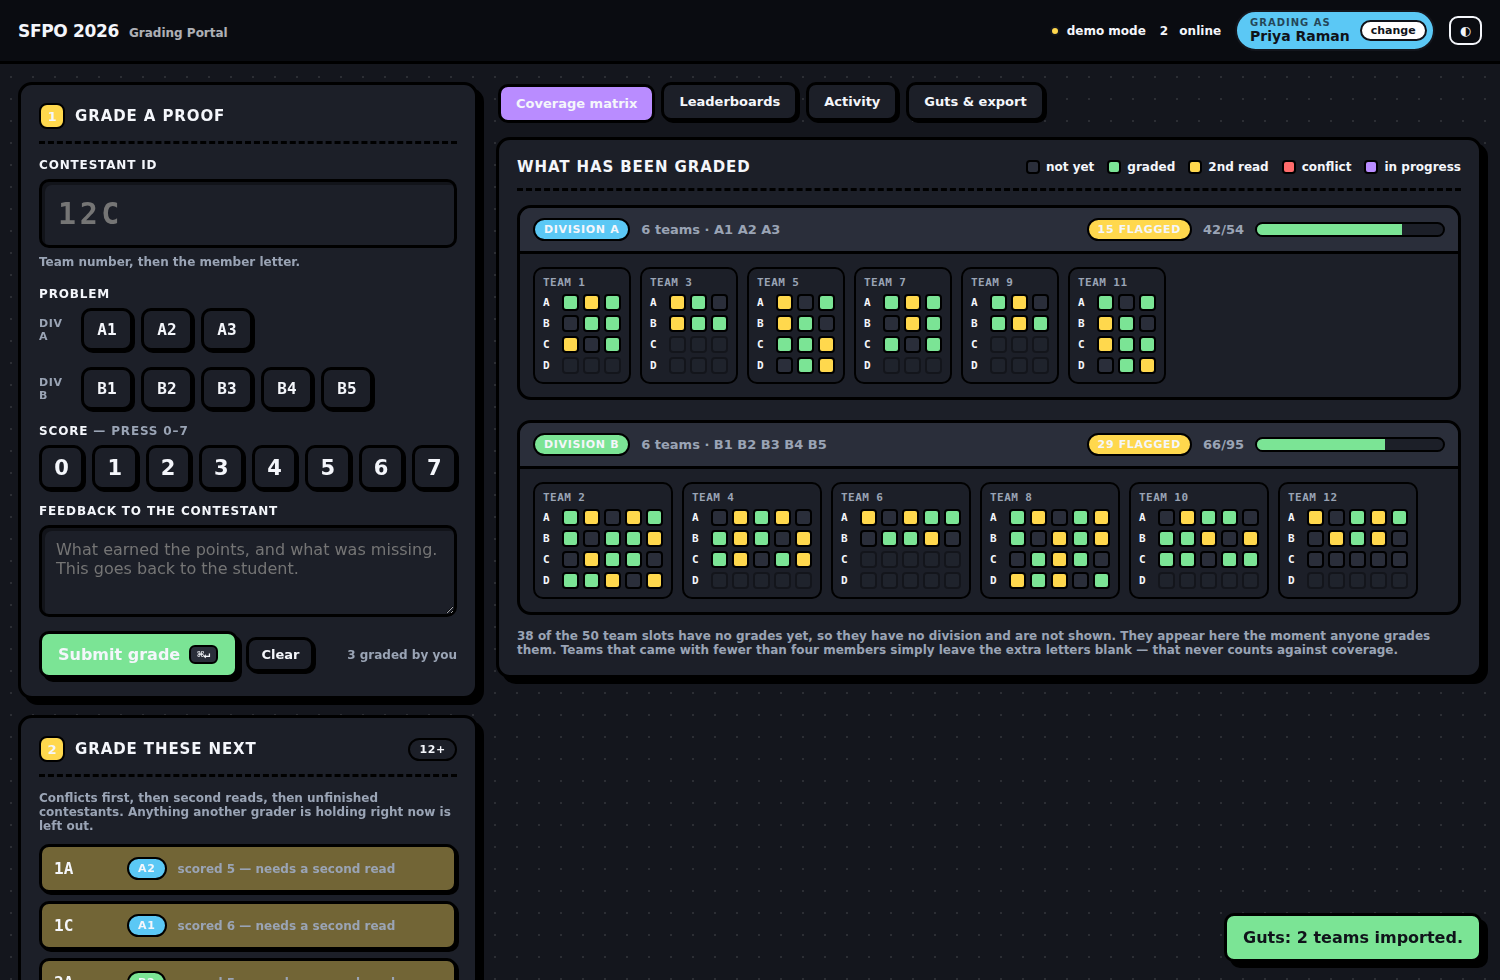
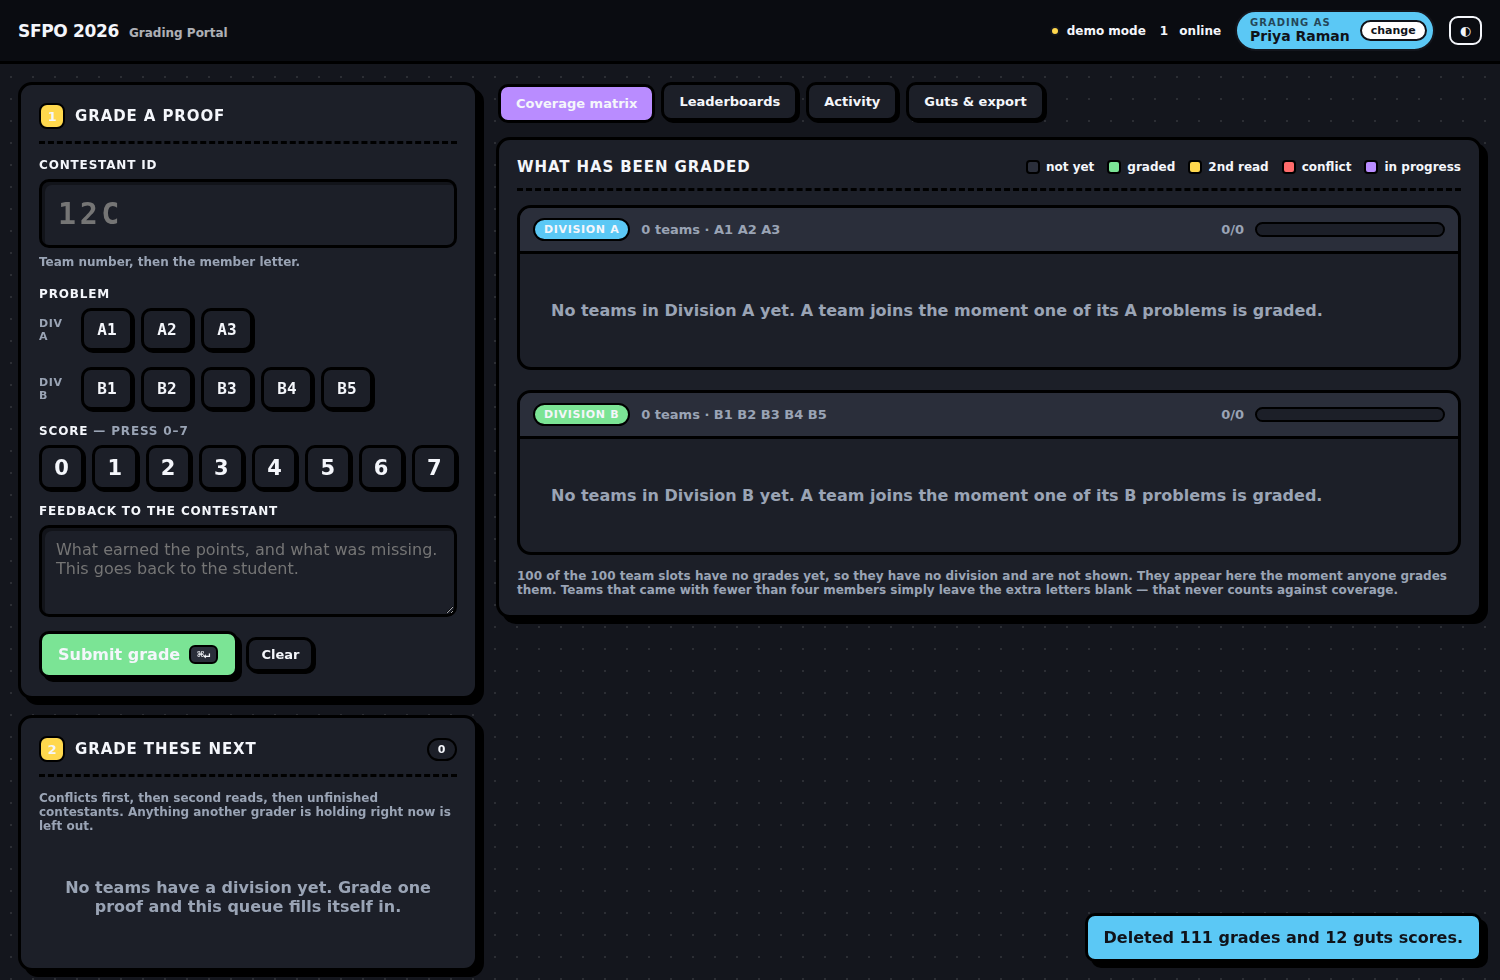
Scale to 100 teams and add a test-data wipe
Registration came in at ~100 teams, double what the portal assumed.

Team count now defaults to 100 in both config.js and the schema. The
stored app_settings value still wins over the file, so an existing
database keeps whatever it has — the README and setup runbook now say to
change it from Guts & export rather than the file.

Doubling the roster doubles the matrix to ~1,600 cells, and it was being
rebuilt from scratch on every realtime event — measured at ~156ms median
on a fully graded 100-team contest, which is visible jank while a grader
is typing feedback. The grid is now built once per shape change (a team
joining a division, a new member letter appearing) and every data change
after that only repaints classes and tooltips on cells that already
exist. Cell clicks moved to one delegated listener instead of ~1,600.
Same measurement now runs at ~40ms.

Adds a way to clear a dry run before the contest: Guts & export now has a
Clear test data panel that deletes every grade, guts score, team and lock
while deliberately preserving settings, since the team count and
thresholds are configuration rather than test data. It shows what would
be deleted, and needs the word ERASE typed in to arm. Both backends
implement it; the Supabase one reports per-table row counts.

The demo-only "Wipe demo data" button is gone, replaced by that panel.
"Load demo data" stays demo-only — seeding fake grades into a live
database would be a footgun.
[…]

diff --git a/assets/app.js b/assets/app.js
@@ -90,6 +90,7 @@ function recompute() {
   derived = {
     byCell,
     claims,
+    seen,
     divByTeam,
     roster,
     individuals,
@@ -453,29 +454,44 @@ function renderSuggestions() {
 // Coverage matrix
 // ---------------------------------------------------------------------
 
-function renderMatrix() {
+// The matrix is the expensive thing on the page: at 100 teams it is
+// ~1,600 cells, and a realtime event arrives every time any grader
+// submits. So the DOM is built once per *shape* change (a team joining a
+// division, a new member letter appearing) and every data change after
+// that only repaints classes and tooltips on cells that already exist.
+let matrixShape = null;
+const matrixCells = new Map();
+const matrixBars = new Map();
+
+function shapeSignature() {
+  return ['A', 'B'].map((division) => derived.roster[division]
+    .map((t) => `${t.team}.${t.members.map((m) => m.member).join('')}`)
+    .join(',')).join('|');
+}
+
+function buildMatrix() {
   const host = $('#matrix');
   host.replaceChildren();
+  matrixCells.clear();
+  matrixBars.clear();
 
   for (const division of ['A', 'B']) {
     const entries = derived.roster[division];
+    const problems = problemsFor(division, cfg);
     const section = el('div', 'matrix__division');
-    const bar = el('div', 'matrix__bar');
-    const progress = derived.progress[division];
 
-    bar.append(
-      el('span', `tag tag--${division.toLowerCase()}`, `Division ${division}`),
-      el('span', 'muted', `${entries.length} teams · ${problemsFor(division, cfg).join(' ')}`),
-    );
-    const spacer = el('span', 'spacer');
-    bar.appendChild(spacer);
-    if (progress.flagged) bar.appendChild(el('span', 'tag tag--flag', `${progress.flagged} flagged`));
-    bar.appendChild(el('span', 'muted', `${progress.done}/${progress.expected}`));
+    const bar = el('div', 'matrix__bar');
+    const flagged = el('span', 'tag tag--flag');
+    const counter = el('span', 'muted');
     const track = el('div', 'progress');
     const fill = el('div', 'progress__fill');
-    fill.style.width = `${progress.pct}%`;
     track.appendChild(fill);
-    bar.appendChild(track);
+    bar.append(
+      el('span', `tag tag--${division.toLowerCase()}`, `Division ${division}`),
+      el('span', 'muted', `${entries.length} teams · ${problems.join(' ')}`),
+      el('span', 'spacer'), flagged, counter, track,
+    );
+    matrixBars.set(division, { flagged, counter, fill });
     section.appendChild(bar);
 
     const grid = el('div', 'matrix__grid');
@@ -485,34 +501,17 @@ function renderMatrix() {
     }
     for (const entry of entries) {
       const teamCard = el('div', 'matrix__team');
-      const label = el('div', 'matrix__team-no', `TEAM ${entry.team}${entry.beyondRange ? ' ⚠' : ''}`);
-      teamCard.appendChild(label);
+      teamCard.appendChild(
+        el('div', 'matrix__team-no', `TEAM ${entry.team}${entry.beyondRange ? ' ⚠' : ''}`));
       for (const member of entry.members) {
         const row = el('div', 'matrix__row');
         row.appendChild(el('span', 'matrix__who', member.member));
-        for (const problem of problemsFor(division, cfg)) {
-          const key = cellKey(member.contestantId, problem);
-          const summary = summariseCell(derived.byCell.get(key), cfg);
-          const claim = derived.claims.get(key);
-
+        for (const problem of problems) {
           const cell = el('button', 'cell');
           cell.type = 'button';
-          if (summary.state !== 'ungraded') cell.classList.add(`cell--${summary.state}`);
-          else if (claim) cell.classList.add('cell--claimed');
-          else if (!member.seen) cell.classList.add('cell--absent');
-          if (claim?.grader_id === grader.id) cell.classList.add('cell--mine');
-
-          const parts = [`${member.contestantId} · ${problem}`];
-          if (summary.state === 'ungraded') parts.push(claim ? `${claim.grader_name} is on it` : 'not graded');
-          else parts.push(`${summary.scores.join(' → ')} by ${summary.graders.join(', ')}`);
-          cell.title = parts.join(' — ');
-          cell.setAttribute('aria-label', cell.title);
-
-          cell.addEventListener('click', () => {
-            $('#contestantId').value = member.contestantId;
-            setContestant(member.contestantId);
-            selectProblem(problem);
-          });
+          cell.dataset.cid = member.contestantId;
+          cell.dataset.problem = problem;
+          matrixCells.set(cellKey(member.contestantId, problem), cell);
           row.appendChild(cell);
         }
         teamCard.appendChild(row);
@@ -522,7 +521,50 @@ function renderMatrix() {
     section.appendChild(grid);
     host.appendChild(section);
   }
+}
 
+function paintMatrix() {
+  for (const [key, cell] of matrixCells) {
+    const [contestantId, problem] = key.split('|');
+    const summary = summariseCell(derived.byCell.get(key), cfg);
+    const claim = derived.claims.get(key);
+    const seen = derived.seen.has(contestantId);
+
+    let cls = 'cell';
+    if (summary.state !== 'ungraded') cls += ` cell--${summary.state}`;
+    else if (claim) cls += ' cell--claimed';
+    else if (!seen) cls += ' cell--absent';
+    if (claim?.grader_id === grader.id) cls += ' cell--mine';
+    if (cell.className !== cls) cell.className = cls;
+
+    const detail = summary.state === 'ungraded'
+      ? (claim ? `${claim.grader_name} is on it` : 'not graded')
+      : `${summary.scores.join(' → ')} by ${summary.graders.join(', ')}`;
+    const title = `${contestantId} · ${problem} — ${detail}`;
+    if (cell.title !== title) {
+      cell.title = title;
+      cell.setAttribute('aria-label', title);
+    }
+  }
+
+  for (const division of ['A', 'B']) {
+    const bar = matrixBars.get(division);
+    if (!bar) continue;
+    const progress = derived.progress[division];
+    bar.fill.style.width = `${progress.pct}%`;
+    bar.counter.textContent = `${progress.done}/${progress.expected}`;
+    bar.flagged.textContent = `${progress.flagged} flagged`;
+    bar.flagged.hidden = progress.flagged === 0;
+  }
+}
+
+function renderMatrix() {
+  const shape = shapeSignature();
+  if (shape !== matrixShape) {
+    matrixShape = shape;
+    buildMatrix();
+  }
+  paintMatrix();
   renderUnassigned();
 }
 
@@ -838,6 +880,11 @@ function render() {
 
   const mine = data.grades.filter((g) => g.grader_id === grader.id).length;
   $('#myCount').textContent = mine ? `${mine} graded by you` : '';
+
+  const teamsWithData = new Set([...data.grades.map((g) => g.team), ...data.guts.map((g) => g.team)]);
+  $('#wipeCounts').textContent = data.grades.length || data.guts.length
+    ? `${data.grades.length} grades · ${data.guts.length} guts scores · ${teamsWithData.size} teams · ${data.claims.length} open locks`
+    : 'Nothing to delete.';
   for (const [id, value] of [['#teamCount', cfg.TEAM_COUNT],
     ['#secondReadThreshold', cfg.SECOND_READ_THRESHOLD],
     ['#disagreementDelta', cfg.DISAGREEMENT_DELTA]]) {
@@ -878,6 +925,16 @@ function updateConnectionBadge() {
 // ---------------------------------------------------------------------
 // Wiring
 // ---------------------------------------------------------------------
+
+function wireMatrix() {
+  $('#matrix').addEventListener('click', (e) => {
+    const cell = e.target.closest('.cell');
+    if (!cell) return;
+    $('#contestantId').value = cell.dataset.cid;
+    setContestant(cell.dataset.cid);
+    selectProblem(cell.dataset.problem);
+  });
+}
 
 function wireTabs() {
   for (const tab of $$('.tab[data-tab]')) {
@@ -979,15 +1036,36 @@ function wireSetup() {
     location.reload();
   });
 
+  // Deleting the whole contest is one click away from the export
+  // buttons, so it takes a deliberate word to arm it.
+  const confirmInput = $('#wipeConfirm');
+  const wipeButton = $('#wipeAll');
+  confirmInput.addEventListener('input', () => {
+    wipeButton.disabled = confirmInput.value.trim().toUpperCase() !== 'ERASE';
+  });
+  wipeButton.addEventListener('click', async () => {
+    if (confirmInput.value.trim().toUpperCase() !== 'ERASE') return;
+    wipeButton.disabled = true;
+    try {
+      await releaseHeldClaim();
+      const counts = await store.clearAll();
+      confirmInput.value = '';
+      clearForm();
+      await refresh();
+      const total = Object.values(counts).reduce((a, b) => a + b, 0);
+      toast(total ? `Deleted ${counts.grades} grades and ${counts.guts} guts scores.`
+        : 'There was nothing to delete.', 'info');
+    } catch (err) {
+      toast(err.message || 'Could not clear the data.', 'error');
+    } finally {
+      wipeButton.disabled = confirmInput.value.trim().toUpperCase() !== 'ERASE';
+    }
+  });
+
+  // Seeding fake grades only ever makes sense against the local demo store.
   if (store.mode === 'demo') {
     $('#seedDemo').classList.remove('hidden');
-    $('#resetDemo').classList.remove('hidden');
     $('#seedDemo').addEventListener('click', async () => { await seedDemo(); toast('Demo data loaded.'); });
-    $('#resetDemo').addEventListener('click', async () => {
-      await store.reset();
-      await refresh();
-      toast('Demo data wiped.', 'info');
-    });
   }
 }
 
@@ -1060,6 +1138,7 @@ async function enterApp() {
   $('#brandSub').textContent = 'Grading Portal';
 
   wireTabs();
+  wireMatrix();
   wireForm();
   wireSetup();
   wireIdentity();

diff --git a/assets/store.js b/assets/store.js
@@ -208,6 +208,23 @@ function supabaseBackend(cfg) {
         .upsert({ id: 1, ...patch, updated_at: new Date().toISOString() }, { onConflict: 'id' });
       if (error) throw new Error(error.message);
     },
+
+    /**
+     * Wipe every grade, guts score, lock and team so a dry run does not
+     * end up in the real results. Settings survive on purpose — the team
+     * count and thresholds are configuration, not test data.
+     */
+    async clearAll() {
+      const c = await getClient();
+      const counts = {};
+      for (const [table, key] of [['grades', 'contestant_id'], ['claims', 'contestant_id'],
+        ['guts', 'team'], ['teams', 'team'], ['graders', 'grader_id']]) {
+        const { data, error } = await c.from(table).delete().not(key, 'is', null).select(key);
+        if (error) throw new Error(`${table}: ${error.message}`);
+        counts[table] = data?.length ?? 0;
+      }
+      return counts;
+    },
   };
   return api;
 }
@@ -326,7 +343,16 @@ function demoBackend() {
     async saveSettings(patch) {
       mutate((db) => { db.settings = { ...(db.settings ?? {}), ...patch }; });
     },
-    async reset() { mutate((db) => { Object.assign(db, EMPTY()); }); },
+    async clearAll() {
+      const counts = {};
+      mutate((db) => {
+        for (const table of ['grades', 'claims', 'guts', 'teams', 'graders']) {
+          counts[table] = db[table].length;
+          db[table] = [];
+        }
+      });
+      return counts;
+    },
   };
 }
 

diff --git a/index.html b/index.html
@@ -238,11 +238,24 @@
           <button class="btn" id="exportCombined">Final combined results</button>
         </div>
 
+        <div class="panel__head" style="margin-top:28px"><h2>Clear test data</h2></div>
+        <p class="field__hint" style="margin-bottom:12px">
+          Deletes every grade, guts score, team and lock so a dry run never lands in the real
+          results. Your settings above are kept. There is no undo — export first if you want a copy.
+        </p>
+        <div class="danger">
+          <p class="danger__counts mono" id="wipeCounts">Nothing to delete.</p>
+          <div class="danger__row">
+            <input class="input" id="wipeConfirm" placeholder="Type ERASE to unlock"
+                   autocomplete="off" spellcheck="false">
+            <button class="btn btn--danger" id="wipeAll" disabled>Delete it all</button>
+          </div>
+        </div>
+
         <div class="panel__head" style="margin-top:28px"><h2>Session</h2></div>
         <div class="chip-row">
           <button class="btn btn--ghost" id="signOut">Sign out</button>
-          <button class="btn btn--ghost btn--danger hidden" id="seedDemo">Load demo data</button>
-          <button class="btn btn--ghost btn--danger hidden" id="resetDemo">Wipe demo data</button>
+          <button class="btn btn--ghost hidden" id="seedDemo">Load demo data</button>
         </div>
       </div>
 

diff --git a/assets/styles.css b/assets/styles.css
@@ -486,6 +486,19 @@ tbody tr:hover { background: color-mix(in srgb, var(--cyan) 16%, transparent); }
 .dropzone:hover, .dropzone.is-over { background: color-mix(in srgb, var(--cyan) 22%, var(--card)); }
 .dropzone.is-over { transform: scale(1.01); }
 
+/* ---------- danger zone ------------------------------------------- */
+
+.danger {
+  border: var(--bw) solid var(--red);
+  border-radius: var(--radius);
+  background: color-mix(in srgb, var(--red) 12%, var(--card));
+  padding: 15px;
+  box-shadow: var(--shadow-xs);
+}
+.danger__counts { font-size: 13px; font-weight: 700; margin-bottom: 11px; }
+.danger__row { display: flex; gap: 9px; flex-wrap: wrap; }
+.danger__row .input { flex: 1; min-width: 190px; }
+
 /* ---------- gate -------------------------------------------------- */
 
 .gate {

diff --git a/assets/config.js b/assets/config.js
@@ -40,7 +40,11 @@ export const CONFIG = {
   // Expected roster shape. There is no roster file — the portal draws
   // the matrix from these bounds and quietly ignores slots nobody ever
   // touches, because plenty of teams come with 1, 2 or 3 members.
-  TEAM_COUNT: 50,
+  //
+  // Changing this here only affects a database that has never had its
+  // settings saved. Once app_settings exists, the stored value wins —
+  // set it from Guts & export instead, so every grader picks it up.
+  TEAM_COUNT: 100,
   MEMBERS: ['A', 'B', 'C', 'D'],
 
   // Live coordination timings (milliseconds)

diff --git a/README.md b/README.md
@@ -51,6 +51,11 @@ column assigns divisions at the same time.
 **Export when you are done.** All grades with feedback, individual results, or the
 final combined standings — as CSV.
 
+**It stays quick at full scale.** With 100 teams the matrix is about 1,600 cells and
+a grade lands on every grader's screen several times a minute. The grid is built once
+per shape change and only repainted after that, which keeps a realtime update at
+around 40ms instead of the ~156ms a full rebuild costs.
+
 ---
 
 ## The stack, and why
@@ -154,7 +159,7 @@ in a believable half-graded contest to click around in.
 
 ```bash
 npm test                 # 28 unit tests over the scoring + CSV logic
-npm run test:e2e         # 44 browser checks, driving two tabs as two graders
+npm run test:e2e         # 54 browser checks, driving two tabs as two graders
                          # (set CHROMIUM_PATH to reuse a preinstalled browser)
 ```
 
@@ -175,8 +180,14 @@ The browser test drives two tabs as two different graders to prove the locking.
 - **Teams with 1–3 members are normal.** The matrix draws four member slots per team
   because it has no roster; slots nobody ever grades stay faded and are excluded from
   the coverage count, so a two-person team never shows as 50% done.
-- **Set the team count** in *Guts & export* if you end up with more than 50 teams. A
-  contestant graded outside the range still appears, marked with a ⚠.
+- **Set the team count** in *Guts & export*. It defaults to 100. A contestant graded
+  outside the range still appears anyway, marked with a ⚠, so a late registration is
+  never silently dropped. Note that once a database has saved its settings, the stored
+  value wins over `config.js` — change it in the UI, not the file, so every grader
+  picks it up.
+- **Clear the dry run before the contest.** *Guts & export → Clear test data* deletes
+  every grade, guts score, team and lock, but keeps your settings. It needs the word
+  `ERASE` typed in to arm, and there is no undo — export first if you want the data.
 - **Tune the thresholds mid-contest.** Second-read and conflict thresholds are saved
   to the database, so changing them updates every grader's screen.
 - **The keyboard is faster.** `0`–`7` set the score from anywhere outside a text box;
